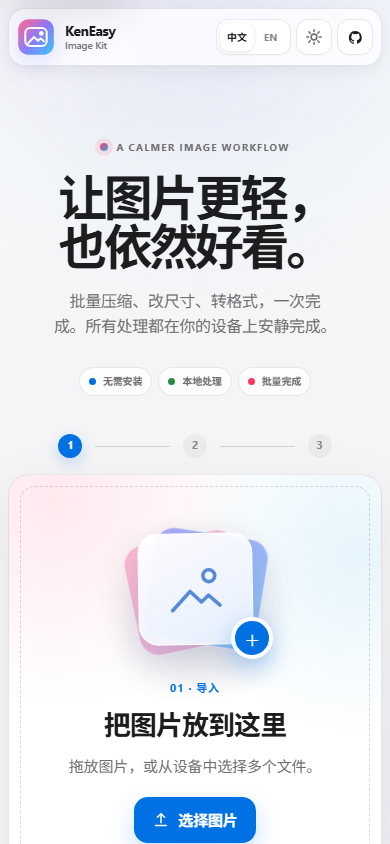
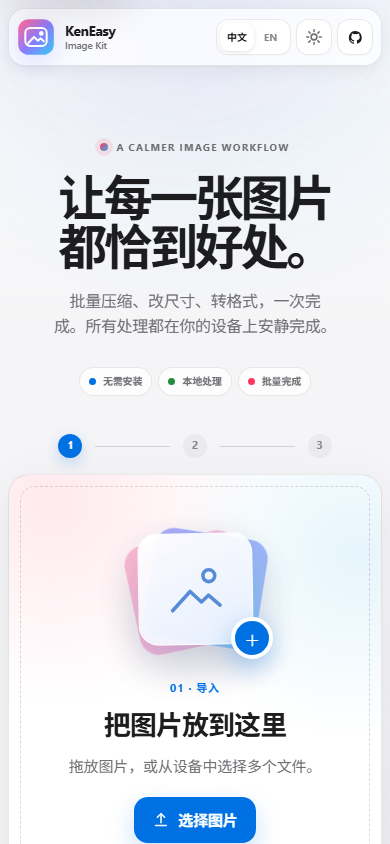
copy: refine the Image Kit hero headline
Use a calmer single-sentence Chinese headline with a matching concise English line, and refresh the README hero, mobile, and animated tour visuals.

Changed region(s): [[0.1538, 0.1848, 0.8615, 0.3389]]

diff --git a/web/i18n.js b/web/i18n.js
@@ -8,7 +8,7 @@
       pageDesc: "拖入图片即可在浏览器本地压缩、改尺寸、转 WebP/JPEG/PNG，并批量下载。无需安装、无需上传、无需注册。",
       skipToMain: "跳到主要内容",
       eyebrow: "A CALMER IMAGE WORKFLOW",
-      heroTitle: "让图片更轻，也依然好看。",
+      heroTitle: "让每一张图片都恰到好处。",
       tagline: "批量压缩、改尺寸、转格式，一次完成。所有处理都在你的设备上安静完成。",
       badgeNoInstall: "无需安装",
       badgeLocal: "本地处理",
@@ -133,7 +133,7 @@
       pageDesc: "Drop images to compress, resize, convert to WebP/JPEG/PNG, and download in batches. No install, upload, or signup.",
       skipToMain: "Skip to main content",
       eyebrow: "A CALMER IMAGE WORKFLOW",
-      heroTitle: "Lighter images. Still beautifully yours.",
+      heroTitle: "Every image, just right.",
       tagline: "Compress, resize, and convert a whole batch in one pass. Everything happens quietly on your device.",
       badgeNoInstall: "No install",
       badgeLocal: "Local only",

diff --git a/web/index.html b/web/index.html
@@ -66,7 +66,7 @@
     <main id="main" class="main">
       <section class="hero" aria-labelledby="heroTitle">
         <div class="hero-kicker"><span class="spark" aria-hidden="true"></span><span data-i18n="eyebrow">A CALMER IMAGE WORKFLOW</span></div>
-        <h1 id="heroTitle" data-i18n="heroTitle">让图片更轻，也依然好看。</h1>
+        <h1 id="heroTitle" data-i18n="heroTitle">让每一张图片都恰到好处。</h1>
         <p class="tagline" data-i18n="tagline">批量压缩、改尺寸、转格式，一次完成。所有处理都在你的设备上安静完成。</p>
         <div class="hero-badges" data-i18n-aria-label="featuresAria" aria-label="产品特点">
           <span class="hero-badge"><i class="hero-badge-dot blue"></i><span data-i18n="badgeNoInstall">无需安装</span></span>